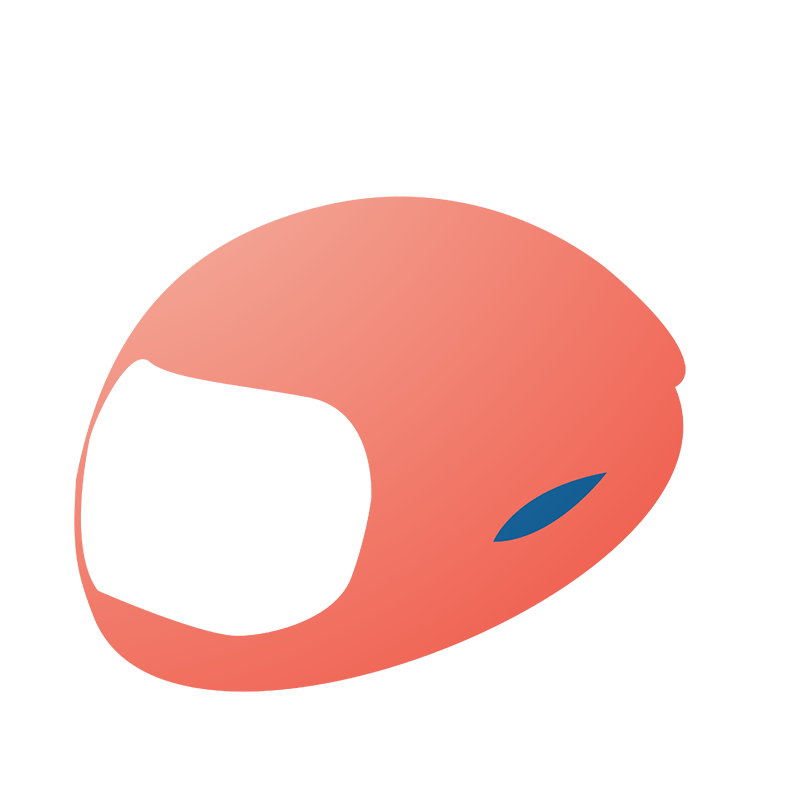
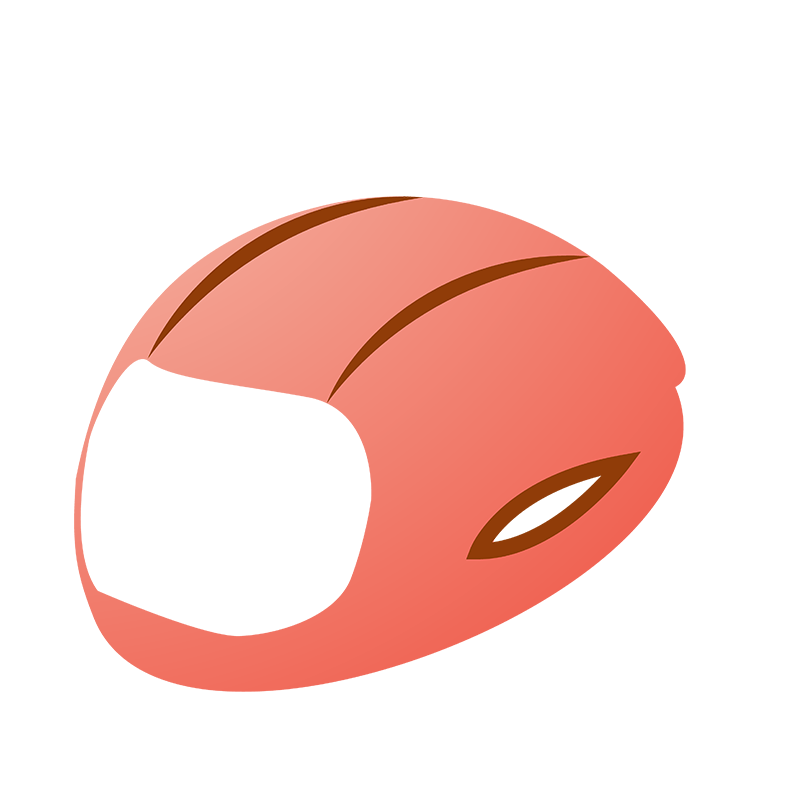
refresh, solli animation, hero head

Changed region(s): [[0.5625, 0.5625, 0.8125, 0.7188], [0.1875, 0.2188, 0.5312, 0.4375], [0.4062, 0.3125, 0.7188, 0.5]]

diff --git a/css/style.css b/css/style.css
@@ -65,7 +65,7 @@ ul {
 }
 
 #myCanvas {
-	margin-top:80px;
+	margin-top:50px;
 	transition: all .5s;
 	-webkit-transition: all .5s;
 	-moz-transition: all .5s;
@@ -73,42 +73,167 @@ ul {
 }
 
 .margin-canvas {
-	margin-top:0px !important;
+	margin-top:25px !important;
 }
 
-.export-btn {
+.export-container {
 	margin:80px auto 0px;
-	width:160px;
-	height:0px;
-	opacity:0;
+	width:324px;
 	overflow:hidden;
+	opacity:0;
+	height:0px !important;
 	transition:opacity .5s;
 	-webkit-transition:opacity .5s;
 	-moz-transition:opacity .5s;
 	-o-transition:opacity .5s;
-	-webkit-transition-delay: 1s; /* Safari */
-    transition-delay: 1s;
 }
 
-.expand {
-	height:100%;
-	opacity:1;
-}
-
-.export-btn button {
+.export-container button {
 	font-size: 18px;
 	position: relative;
-	padding: 10px;
+	float:left;
+	padding: 0px;
+	height:0px;
+	opacity:0;
 	color: white;
-	width: 100%;
+	width: 160px;
 	border-radius: 6px;
-	border: 2px solid orange;
+	border: 2px solid green;
 	border-image: none;
-	background-color: darkorange;
+	background-color: rgb(129, 204, 90);
+	transition:all .5s;
+	-webkit-transition:all .5s;
+	-moz-transition:all .5s;
+	-o-transition:all .5s;
 }
 
 #btn-text {
 	margin:0;
+}
+
+.export-container input {
+	float: left;
+	margin-left:80px;
+	margin-right:4px;
+	width:160px;
+	height: 49px;
+	font-size:18px;
+	text-align: center;
+	border-radius: 5px;
+	border: 2px solid orange;
+	transition:margin-left .5s;
+	-webkit-transition:margin-left .5s;
+	-moz-transition:margin-left .5s;
+	-o-transition:margin-left .5s;
+}
+
+.refresh {
+	width:1024px;
+	height:30px;
+	position:fixed;
+	top:0px;
+	opacity:0;
+	transition:all .5s;
+	-webkit-transition:all .5s;
+	-moz-transition:all .5s;
+	-o-transition:all .5s;
+}
+
+.refresh img {
+	height:100%;
+	margin-left:calc(50% - 30px);
+}
+
+@keyframes bounce {
+	0%, 100% {
+		margin-top: 0px;	
+		margin-left:0px;	
+	}
+	25% {
+		margin-left:2px;
+	}
+
+	50% {
+		margin-top:5px;
+	}
+	75% {
+		margin-left:-2px;
+	}
+}
+
+@-webkit-keyframes bounce {
+	0%, 100% {
+		margin-top: 0px;	
+		margin-left:0px;	
+	}
+	25% {
+		margin-left:2px;
+	}
+
+	50% {
+		margin-top:5px;
+	}
+	75% {
+		margin-left:-2px;
+	}
+}
+
+@keyframes liftoff {
+	from {
+		transform: rotate(0deg);	
+	}
+	to {
+		transform:rotate(2deg);
+		margin-top:-1000px;
+	}
+}
+
+@-webkit-keyframes liftoff {
+	from {
+		transform: rotate(0deg);	
+	}
+	to {
+		transform:rotate(2deg);
+		margin-top:-1000px;
+	}
+}
+
+.liftoff {
+	animation:bounce ease .5s infinite, liftoff ease .5s 2s forwards;
+	-webkit-animation:bounce ease .5s infinite, liftoff ease .5s 2s forwards;
+	-o-animation:bounce ease .5s infinite, liftoff ease .5s 2s forwards;
+	-moz-animation:bounce ease .5s infinite, liftoff ease .5s 2s forwards;
+	transition-delay:1s;
+	-webkit-transition-delay:1s;
+}
+	
+.left {
+	margin-left:0px !important;
+}
+
+.right {
+	margin-right:80px !important;
+	transition-delay:1s;
+	-webkit-transition:1s;
+}
+
+.transition-out {
+	opacity:0 !important;
+	margin-left:-80px !important;
+}
+
+.transition-in {
+	opacity:1 !important;
+	top:25px !important;
+}
+
+.expand {
+	height:49px !important;
+	opacity:1 !important;
+}
+
+.fade-out {
+	opacity:0 !important;
 }
 
 .appearance {

diff --git a/javascripts/solly.js b/javascripts/solly.js
@@ -49,8 +49,39 @@ function drawSolly() {
 	drawBodyPart(context, solly.chosen_eyes, 0, 0, 500*ratio, 500*ratio);
 };
 
+var email;
+var emailValidated;
+checkEmail();
+
+function checkEmail() {
+	email = $('#input').val();
+	var emailReg = /^([a-zA-Z0-9_.+-])+\@(([a-zA-Z0-9-])+\.)+([a-zA-Z0-9]{2,4})+$/;
+	if(!emailReg.test(email)) {  
+        $('.export-container button').removeClass('expand');
+		$('.export-container input').removeClass('left');
+		$('.export-container input').removeClass('appearance');
+   	} else {
+		$('.export-container button').addClass('expand');
+		$('.export-container input').addClass('left');
+		$('.export-container input').addClass('appearance');
+		emailValidated = email;
+		console.log(emailValidated);	
+	}
+	setTimeout (function () {
+		checkEmail();
+	},1000);
+}
+
+console.log(email);
+
 $('#exportImage').on('click', function() {
-		$('.export-btn button').addClass('appearance');
+		$('.export-container button').addClass('appearance');
+		$('.export-container button').addClass('right');
+		$('.export-container button').addClass('fade-out');
+		$('.export-container input').addClass('transition-out');
+		$('.refresh').removeClass('transition-in');
+		$('.refresh').addClass('fade-out');
+		$('#myCanvas').addClass('liftoff');
 		document.getElementById("btn-text").innerHTML = "Geactiveerd";
 		
 		var screenshot = Canvas2Image.saveAsPNG(canvas, true);
@@ -58,14 +89,15 @@ $('#exportImage').on('click', function() {
 		screenshot.id = "canvasimage";		
 		data = $('#canvasimage').attr('src');
 		canvas.parentNode.removeChild(screenshot);
-
+		console.log(emailValidated);
 		var url = 'upload/export.php';
 		$.ajax({ 
 		    type: "POST", 
 		    url: url,
 		    dataType: 'text',
 		    data: {
-		        base64data : data
+		        email: emailValidated,
+				base64data : data
 		    }
 		});
 });
@@ -91,8 +123,16 @@ $('.ant').on('click', function() {
 
 $('.feet').on('click', function() {  
 	selectPart("chosen_feet", 3, $(this));
-	$('.export-btn').addClass('expand');
 	$('#myCanvas').addClass('margin-canvas');
+	$('.export-container').addClass('expand');
+	$('.refresh').addClass('transition-in');
+});
+
+$('.refresh').on('click', function() {
+	selectPart("", 0, $(this));
+	$('.refresh').removeClass('transition-in');
+	$('#myCanvas').removeClass('margin-canvas');
+	$('.export-container').removeClass('expand');
 });
 
 });

diff --git a/index.html b/index.html
@@ -65,14 +65,17 @@
 <div class="previewSolly"></div>
 
 <div class="canvas-positioning">
-    <canvas id="myCanvas" width="500px" height="500px"> <!--maak 500x500-->
+    <canvas id="myCanvas" width="500px" height="500px">
     </canvas>
 </div>
 
-<!--<input type="text" placeholder="vul je naam in">-->
-
-<div class="export-btn">
+<div class="export-container">
+	<input type="text" id="input" placeholder="Vul je email in">
 	<button id="exportImage"><p id="btn-text">Activeer Solly!</p></button>
+</div>
+
+<div class="refresh">
+	<img src="images/refresh.svg"/>
 </div>
 
 </body>

diff --git a/upload/export.php b/upload/export.php
@@ -1,15 +1,11 @@
 <?php
-
-	/**
-	 * More info about this script on: 
-	 * http://stackoverflow.com/questions/11511511/how-to-save-a-png-image-server-side-from-a-base64-data-string
-	 */
-
-	$data = $_REQUEST['base64data']; 
+	$email = $_POST['email'];
+	
+	$data = $_POST['base64data']; 
 	echo $data;
 
 	$image = explode('base64,',$data);  
-	$filename = time() . "-" . md5($data);
+	$filename = time() . "-" . md5($data)."-".$email;
 	echo $filename;
     file_put_contents($filename . '.png', base64_decode($image[1]));
 
